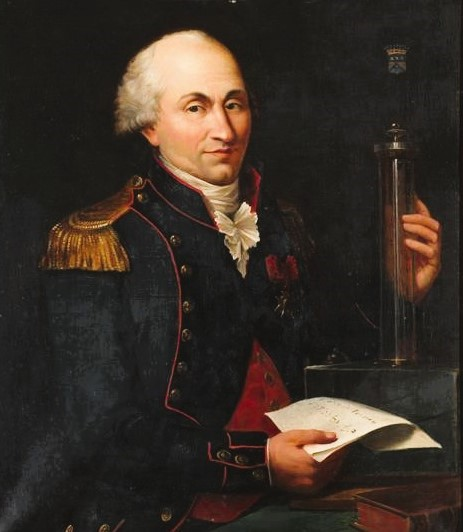
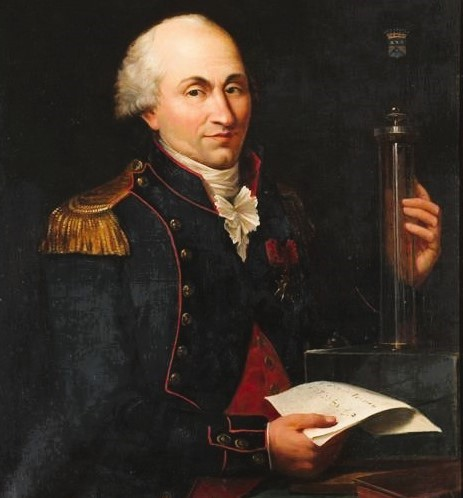
change home picture ratio

diff --git a/app/ui/tutorials/tutorials-list/tutorials-list.tsx b/app/ui/tutorials/tutorials-list/tutorials-list.tsx
@@ -30,7 +30,7 @@ export default async function TutorialsList(): Promise<JSX.Element | null> {
                     )
                     .map((image) => (
                       <Image
-                        className="rounded-lg w-96 h-96"
+                        className="rounded-lg w- h-auto"
                         priority
                         key={image.image_name}
                         // src={tutorial.image_url}
